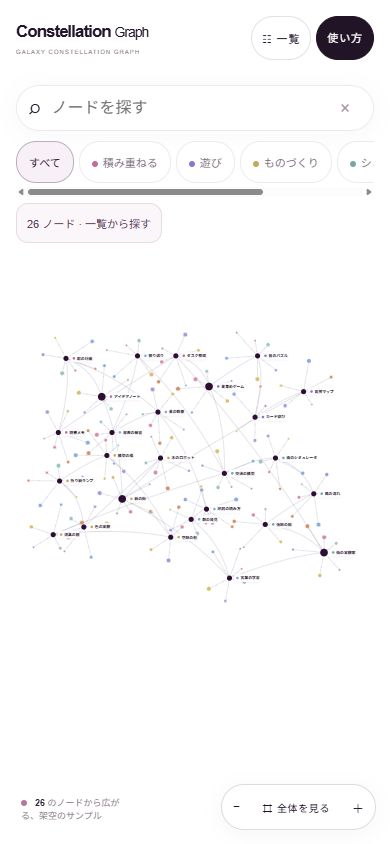
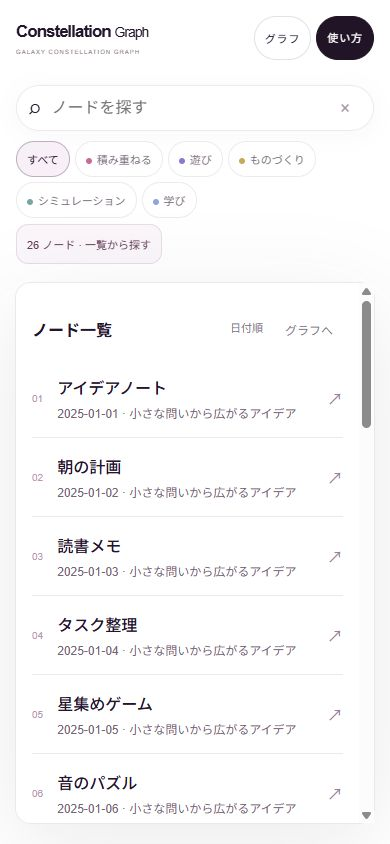
🧭 Make phone navigation readable and gestures predictable
- Default phones to a searchable list with explicit map switching
- Restore keyboard focus and isolate detail dialogs
- Harden drag/pinch cancellation and expand interaction regression tests

diff --git a/app.js b/app.js
@@ -1,4 +1,4 @@
-(async()=>{try {const response=await fetch('data.json');if(!response.ok)throw new Error('HTTP '+response.status);const D=GraphData.normalize(await response.json()),N=D.nodes,$=s=>document.querySelector(s),G={SYSTEM:['積み重ねる','#c76c96'],PLAY:['遊び','#8e78cf'],MAKE:['ものづくり','#c6a958'],SIM:['シミュレーション','#76a7a4'],LEARN:['学び','#8da5de']};let filter='ALL',query='',zoom=1,dx=0,dy=0,lastFocus,sortTime=false,detailTrail=[];const esc=s=>String(s).replace(/[&<>"']/g,c=>({'&':'&amp;','<':'&lt;','>':'&gt;','"':'&quot;',"'":'&#39;'}[c]));
+(async()=>{try {const response=await fetch('data.json');if(!response.ok)throw new Error('HTTP '+response.status);const D=GraphData.normalize(await response.json()),N=D.nodes,$=s=>document.querySelector(s),G={SYSTEM:['積み重ねる','#c76c96'],PLAY:['遊び','#8e78cf'],MAKE:['ものづくり','#c6a958'],SIM:['シミュレーション','#76a7a4'],LEARN:['学び','#8da5de']};let filter='ALL',query='',zoom=1,dx=0,dy=0,lastFocus,sortTime=false,detailTrail=[],suppressMapClick=false;const esc=s=>String(s).replace(/[&<>"']/g,c=>({'&':'&amp;','<':'&lt;','>':'&gt;','"':'&quot;',"'":'&#39;'}[c]));
 const pos=[[250,260],[110,110],[80,400],[540,100],[670,220],[860,100],[850,340],[1040,240],[330,660],[480,500],[180,770],[85,590],[270,490],[520,810],[60,800],[730,560],[930,500],[1080,640],[890,760],[1120,870],[750,970],[600,740],[660,700],[470,320],[290,400],[390,100]];
 N.forEach(n=>{if(!Object.hasOwn(G,n.group))Object.defineProperty(G,n.group,{value:[n.group,'#8b8490'],enumerable:true});if(!pos[n.id]){const a=n.id*2.399;pos[n.id]=[600+Math.cos(a)*(200+n.id*7),520+Math.sin(a)*(200+n.id*7)]}});$('#nodeCount').textContent=N.length;
 let leaves=[],leafMap=new Map(),branch=[];N.forEach(n=>n.quotes.forEach((q,j)=>{let l=leafMap.get(n.id+":"+q.id);if(!l){let angle=(j*2.399+n.id*.91),radius=60+(j%3)*31;l={id:leaves.length,x:pos[n.id][0]+Math.cos(angle)*radius,y:pos[n.id][1]+Math.sin(angle)*radius,n:n.id,q};leafMap.set(n.id+":"+q.id,l);leaves.push(l)}branch.push({n:n.id,l:l.id})}));const palette=['#d88dad','#a69bdb','#8babe2','#9dc4c0','#d7c16e','#d29371'];
@@ -6,14 +6,24 @@ function visible(){return N.filter(n=>(filter==='ALL'||n.group===filter)&&(!quer
 $('#filters').innerHTML='<button data-group="ALL" class="active" aria-pressed="true">すべて</button>'+Object.entries(G).map(([k,[v,c]])=>`<button data-group="${esc(k)}" aria-pressed="false"><i class="dot" style="--c:${c}"></i>${esc(v)}</button>`).join('');
 function transform(){let w=innerWidth,h=innerHeight;$('#world').setAttribute('transform',`translate(${w/2+dx},${h/2+dy}) scale(${zoom}) translate(-600,-520)`)}
 function reset(){const all=N.flatMap(n=>{let[x,y]=pos[n.id];return [[x-130,y-130],[x+Math.max(180,n.title.length*15+60),y+130]]});if(!all.length){zoom=1;dx=dy=0;transform();return}const xs=all.map(p=>p[0]),ys=all.map(p=>p[1]),minX=Math.min(...xs),maxX=Math.max(...xs),minY=Math.min(...ys),maxY=Math.max(...ys);zoom=Math.max(.02,Math.min(1.25,(innerWidth-40)/(maxX-minX),Math.max(80,innerHeight-300)/(maxY-minY)));dx=(600-(minX+maxX)/2)*zoom;dy=(520-(minY+maxY)/2)*zoom+45;transform()}
-function render(){let nodes=visible();$('#resultSummary').textContent=query||filter!=='ALL'?(nodes.length?nodes.length+' / '+N.length+' ノード · 結果を見る':'該当なし · 条件を変えてください'):N.length+' ノード · 一覧から探す';$('#resetFilters').hidden=!(query||filter!=='ALL');let ids=new Set(nodes.map(n=>n.id));let html=D.edges.map(([a,b])=>`<path class="edge ${ids.has(a)&&ids.has(b)?'':'muted'}" d="M${pos[a]} Q${(pos[a][0]+pos[b][0])/2+35},${(pos[a][1]+pos[b][1])/2-35} ${pos[b]}"/>`).join('');html+=branch.map(({n,l})=>{let p=pos[n],s=leaves[l],on=ids.has(n);return `<path class="branch ${on?'':'muted'}" d="M${p} L${s.x},${s.y}"/>`+[.3,.65].map(t=>`<rect class="spark" x="${p[0]+(s.x-p[0])*t-1.5}" y="${p[1]+(s.y-p[1])*t-1.5}" width="3" height="3" opacity="${on?.7:.05}"/>`).join('')}).join('');html+=leaves.map((l,i)=>`<circle class="leaf ${ids.has(l.n)?'':'muted'}" data-source="${i}" role="button" tabindex="${ids.has(l.n)?0:-1}" aria-label="${esc(N[l.n].title+'のメモ '+l.q.date.slice(0,10))}" cx="${l.x}" cy="${l.y}" r="${4+i%5*1.1}" fill="${palette[i%palette.length]}"><title>${esc(l.q.text.slice(0,70))}</title></circle>`).join('');html+=N.filter(n=>n.img).map(n=>{let[x,y]=pos[n.id];return `<path class="branch" d="M${x},${y} L${x-85},${y+90}"/><g class="asset" role="button" tabindex="0" aria-label="${esc(n.title)}のコンセプト画像" data-open="${n.id}" transform="translate(${x-85},${y+90})"><rect x="-31" y="-23" width="62" height="46" rx="5"/><image href="${esc(n.img)}" x="-28" y="-20" width="56" height="40" preserveAspectRatio="xMidYMid slice"/></g>`}).join('');html+=N.map(n=>{let[x,y]=pos[n.id],c=G[n.group][1],r=[0,4,8,19].includes(n.id)?15:10,wide=n.title.length*14+29;return `<g class="topic ${ids.has(n.id)?'':'muted'} ${query&&ids.has(n.id)?'match':''}" role="button" tabindex="${ids.has(n.id)?0:-1}" aria-label="${esc(n.title)}" data-open="${n.id}" transform="translate(${x},${y})"><circle class="hub" r="${r}"/><rect class="label-bg" x="${r+8}" y="-16" rx="7" width="${wide}" height="31"/><circle cx="${r+21}" cy="-.5" r="5" fill="${c}"/><text x="${r+33}" y="5">${esc(n.title)}</text></g>`}).join('');$('#world').innerHTML=html;transform();let ordered=sortTime?[...nodes].sort((a,b)=>a.date.localeCompare(b.date)):nodes;$('#results').innerHTML=ordered.length?ordered.map(n=>`<button class="list-row" data-open="${n.id}"><span class="num">${String(n.id+1).padStart(2,'0')}</span><span><strong>${esc(n.title)}</strong><small>${esc(n.date)} · ${esc(n.sub)}</small></span><span class="go">↗</span></button>`).join(''):'<p class="empty">一致するノードがありません。</p>'}
-function show(html){if($('#drawer').hidden){lastFocus=document.activeElement;detailTrail=[]}else{detailTrail.push({html:$('#detail').innerHTML,scroll:$('#drawer').scrollTop})}$('#detailBack').hidden=!detailTrail.length;$('#detail').innerHTML=html;$('#drawer').hidden=false;$('#shade').hidden=false;document.body.classList.add('locked');$('#drawer').scrollTop=0;$('#close').focus()}
+function render(){let nodes=visible();$('#resultSummary').textContent=query||filter!=='ALL'?(nodes.length?nodes.length+' / '+N.length+' ノード · 結果を見る':'該当なし · 条件を変えてください'):N.length+' ノード · 一覧から探す';$('#resetFilters').hidden=!(query||filter!=='ALL');let ids=new Set(nodes.map(n=>n.id));let html=D.edges.map(([a,b])=>`<path class="edge ${ids.has(a)&&ids.has(b)?'':'muted'}" d="M${pos[a]} Q${(pos[a][0]+pos[b][0])/2+35},${(pos[a][1]+pos[b][1])/2-35} ${pos[b]}"/>`).join('');html+=branch.map(({n,l})=>{let p=pos[n],s=leaves[l],on=ids.has(n);return `<path class="branch ${on?'':'muted'}" d="M${p} L${s.x},${s.y}"/>`+[.3,.65].map(t=>`<rect class="spark" x="${p[0]+(s.x-p[0])*t-1.5}" y="${p[1]+(s.y-p[1])*t-1.5}" width="3" height="3" opacity="${on?.7:.05}"/>`).join('')}).join('');html+=leaves.map((l,i)=>`<circle class="leaf ${ids.has(l.n)?'':'muted'}" data-source="${i}" role="button" tabindex="-1" aria-label="${esc(N[l.n].title+'のメモ '+l.q.date.slice(0,10))}" cx="${l.x}" cy="${l.y}" r="${4+i%5*1.1}" fill="${palette[i%palette.length]}"><title>${esc(l.q.text.slice(0,70))}</title></circle>`).join('');html+=N.filter(n=>n.img&&ids.has(n.id)).map(n=>{let[x,y]=pos[n.id];return `<path class="branch" d="M${x},${y} L${x-85},${y+90}"/><g class="asset" role="button" tabindex="-1" aria-label="${esc(n.title)}のコンセプト画像" data-open="${n.id}" transform="translate(${x-85},${y+90})"><rect x="-31" y="-23" width="62" height="46" rx="5"/><image href="${esc(n.img)}" x="-28" y="-20" width="56" height="40" preserveAspectRatio="xMidYMid slice"/></g>`}).join('');html+=N.map(n=>{let[x,y]=pos[n.id],c=G[n.group][1],r=[0,4,8,19].includes(n.id)?15:10,wide=n.title.length*14+29;return `<g class="topic ${ids.has(n.id)?'':'muted'} ${query&&ids.has(n.id)?'match':''}" role="button" tabindex="-1" aria-label="${esc(n.title)}" data-open="${n.id}" transform="translate(${x},${y})"><circle class="hub" r="${r}"/><rect class="label-bg" x="${r+8}" y="-16" rx="7" width="${wide}" height="31"/><circle cx="${r+21}" cy="-.5" r="5" fill="${c}"/><text x="${r+33}" y="5">${esc(n.title)}</text></g>`}).join('');$('#world').innerHTML=html;transform();let ordered=sortTime?[...nodes].sort((a,b)=>a.date.localeCompare(b.date)):nodes;$('#results').innerHTML=ordered.length?ordered.map(n=>`<button class="list-row" data-open="${n.id}"><span class="num">${String(n.id+1).padStart(2,'0')}</span><span><strong>${esc(n.title)}</strong><small>${esc(n.date)} · ${esc(n.sub)}</small></span><span class="go">↗</span></button>`).join(''):'<p class="empty">一致するノードがありません。</p>'}
+function setList(show,focus=false){$('#list').hidden=!show;$('#listToggle').textContent=show?'グラフ':'一覧';$('#listToggle').setAttribute('aria-expanded',show);document.body.classList.toggle('list-open',show);if(focus)(show?$('#listClose'):$('#listToggle')).focus()}
+function lockBackground(locked){['#space','header','.tools','#bottom','#list'].forEach(s=>{$(s).inert=locked})}
+function show(html){if($('#drawer').hidden){lastFocus=document.activeElement;detailTrail=[]}else{detailTrail.push({html:$('#detail').innerHTML,scroll:$('#drawer').scrollTop})}$('#search').blur?.();lockBackground(true);$('#detailBack').hidden=!detailTrail.length;$('#detail').innerHTML=html;$('#drawer').hidden=false;$('#shade').hidden=false;document.body.classList.add('locked');$('#drawer').scrollTop=0;$('#close').focus()}
 function open(id){let n=N[id];let related=D.edges.flatMap(([a,b])=>a===id?[b]:b===id?[a]:[]);show(`<div class="eyebrow">${esc(G[n.group][0])} / ${String(id+1).padStart(2,'0')}</div><h2>${esc(n.title)}</h2><button class="related" data-locate="${id}">このノードを地図で見る ↗</button><p class="sub">${esc(n.sub)}</p><p class="desc">${esc(n.desc)}</p>${n.img?`<img src="${esc(n.img)}" alt="${esc(n.title)}のコンセプトシート"><p class="note">架空のデモ画像です。</p>`:''}<h3>ノードのメモ</h3>${n.quotes.length?n.quotes.map(q=>`<blockquote>${esc(q.text).replace(/\[([^\]]+)\]\((https:\/\/[^)]+)\)/g,'<a href="$2" target="_blank" rel="noopener">$1 ↗</a>')}</blockquote><p class="source">${esc(q.author||'作成者未設定')} · ${esc(q.date.slice(0,10))}</p><details class="source"><summary>出典ID</summary>${esc(q.id)}</details>`).join(''):'<p class="note">メモは登録されていません。</p>'}${n.links.length?'<h3>関連する場所</h3>'+n.links.map(l=>`<a class="link" href="${esc(l)}" target="_blank" rel="noopener">${'関連リンク'} ↗</a>`).join(''):''}<h3>つながっているノード</h3>${related.map(i=>`<button class="related" data-open="${i}">${esc(N[i].title)} ↗</button>`).join('')}<p class="note">線はデータに定義されたノード同士の関係を表します。</p>`)}
-function close(){detailTrail=[];$('#detailBack').hidden=true;$('#drawer').hidden=true;$('#shade').hidden=true;document.body.classList.remove('locked');lastFocus?.focus()}
+function close(){lockBackground(false);detailTrail=[];$('#detailBack').hidden=true;$('#drawer').hidden=true;$('#shade').hidden=true;document.body.classList.remove('locked');lastFocus?.focus()}
 function openSource(i){let l=leaves[i],q=l.q;show(`<div class="eyebrow">関連データ</div><h2>${esc(N[l.n].title)}</h2><blockquote>${esc(q.text)}</blockquote><p class="source">${esc(q.author||'作成者未設定')} · ${esc(q.date.slice(0,10))}</p><details class="source"><summary>出典ID</summary>${esc(q.id)}</details><button class="related" data-open="${l.n}">このノードをひらく ↗</button>`)}
-document.addEventListener('click',e=>{const locate=e.target.closest('[data-locate]');if(locate){const id=+locate.dataset.locate;$('#resetFilters').onclick();close();$('#list').hidden=true;zoom=innerWidth<650?.86:1.15;dx=(600-pos[id][0]-80)*zoom;dy=(520-pos[id][1])*zoom;transform();return}let o=e.target.closest('[data-open]');if(o)open(+o.dataset.open);let source=e.target.closest('[data-source]');if(source)openSource(+source.dataset.source);let f=e.target.closest('[data-group]');if(f){filter=f.dataset.group;document.querySelectorAll('[data-group]').forEach(x=>(x.classList.toggle('active',x===f),x.setAttribute('aria-pressed',x===f)));render();let v=visible();if(filter!=='ALL'&&v.length){let xs=v.map(n=>pos[n.id][0]),ys=v.map(n=>pos[n.id][1]);zoom=Math.min(1.25,innerWidth/(Math.max(...xs)-Math.min(...xs)+300),(innerHeight-200)/(Math.max(...ys)-Math.min(...ys)+220));dx=(600-(Math.max(...xs)+Math.min(...xs)+150)/2)*zoom;dy=(520-(Math.max(...ys)+Math.min(...ys))/2)*zoom+50;transform()}else reset(true)}});document.addEventListener('keydown',e=>{if(e.key==='Escape'){if(!$('#drawer').hidden)close();$('#list').hidden=true}if((e.key==='Enter'||e.key===' ')&&e.target.matches('.topic,.leaf,.asset')){e.preventDefault();e.target.dataset.open!==undefined?open(+e.target.dataset.open):openSource(+e.target.dataset.source)}if(e.key==='Tab'&&!$('#drawer').hidden){let a=[...$('#drawer').querySelectorAll('button,a,summary')].filter(el=>!el.hidden),first=a[0],last=a.at(-1);if(e.shiftKey&&document.activeElement===first){e.preventDefault();last.focus()}else if(!e.shiftKey&&document.activeElement===last){e.preventDefault();first.focus()}}});$('#detailBack').onclick=()=>{const prev=detailTrail.pop();if(!prev)return;$('#detail').innerHTML=prev.html;$('#drawer').scrollTop=prev.scroll;$('#detailBack').hidden=!detailTrail.length;$('#close').focus()};$('#close').onclick=close;$('#shade').onclick=close;$('#resultSummary').onclick=()=>{$('#list').hidden=false};$('#resetFilters').onclick=()=>{filter='ALL';query='';$('#search').value='';document.querySelectorAll('[data-group]').forEach(x=>{x.classList.toggle('active',x.dataset.group==='ALL');x.setAttribute('aria-pressed',x.dataset.group==='ALL')});render();reset()};$('#listToggle').onclick=()=>$('#list').hidden=!$('#list').hidden;$('#listClose').onclick=()=>$('#list').hidden=true;$('#time').onclick=()=>{sortTime=!sortTime;$('#time').textContent=sortTime?'ノード順に並べる':'日付順に並べる';render()};$('#search').oninput=e=>{query=e.target.value.toLowerCase().trim();render();if(query){let n=visible()[0];if(n){zoom=innerWidth<650?.86:1.15;dx=(600-pos[n.id][0]-80)*zoom;dy=(520-pos[n.id][1])*zoom;transform()}}};$('#clear').onclick=()=>{$('#search').value='';query='';render();reset(true)};$('#home').onclick=e=>{e.preventDefault();reset(true)};
-$('#scope').onclick=()=>show(`<div class="eyebrow">GALAXY CONSTELLATION GRAPH · DEMO</div><h2>ノードと辺で、<br>つながりを可視化。</h2><p class="desc">大きな濃色の点はノード。周囲の色付きの点は、架空の関連データです。どちらも触れると開きます。線をたどると、試行錯誤のつながりが見えてきます。</p><h3>収録範囲</h3><p class="desc">${esc(D.scope)}</p><p class="desc">${N.length}ノード・${leaves.length}件の関連データ。線はサンプルとして整理した関係で、実システムの接続や完成率ではありません。</p><h3>公開デモ</h3><p class="note">全データは公開デモ用に作成した架空の内容です。実在人物の記録・画像は含みません。外部解析タグはありません。</p>`);
-$('#plus').onclick=()=>{zoom=Math.min(3,zoom*1.3);transform()};$('#minus').onclick=()=>{zoom=Math.max(.02,zoom/1.3);transform()};$('#reset').onclick=()=>reset();let points=new Map(),start;const map=$('#map');map.onpointerdown=e=>{if(e.target.closest('.topic,.leaf,.asset'))return;points.set(e.pointerId,{x:e.clientX,y:e.clientY});map.setPointerCapture(e.pointerId);let p=[...points.values()];start={dx,dy,zoom,x:p[0].x,y:p[0].y,dist:p.length>1?Math.hypot(p[1].x-p[0].x,p[1].y-p[0].y):0}};map.onpointermove=e=>{if(!points.has(e.pointerId)||!start)return;points.set(e.pointerId,{x:e.clientX,y:e.clientY});let p=[...points.values()];if(p.length===2&&start.dist){zoom=Math.min(3,Math.max(.02,start.zoom*Math.hypot(p[1].x-p[0].x,p[1].y-p[0].y)/start.dist))}else{dx=start.dx+p[0].x-start.x;dy=start.dy+p[0].y-start.y}transform()};map.onpointerup=map.onpointercancel=e=>{points.delete(e.pointerId);let p=[...points.values()];start=p.length?{dx,dy,zoom,x:p[0].x,y:p[0].y,dist:0}:null};map.onwheel=e=>{e.preventDefault();const old=zoom;zoom=Math.min(3,Math.max(.02,zoom*(e.deltaY<0?1.09:.92)));const ratio=zoom/old;dx=e.clientX-innerWidth/2-(e.clientX-innerWidth/2-dx)*ratio;dy=e.clientY-innerHeight/2-(e.clientY-innerHeight/2-dy)*ratio;transform()};addEventListener('resize',transform);render();reset(true);
+document.addEventListener('click',e=>{if(suppressMapClick&&e.target.closest('#map')){suppressMapClick=false;return}const locate=e.target.closest('[data-locate]');if(locate){const id=+locate.dataset.locate;$('#resetFilters').onclick();close();setList(false);zoom=innerWidth<650?.86:1.15;dx=(600-pos[id][0]-80)*zoom;dy=(520-pos[id][1])*zoom;transform();return}let o=e.target.closest('[data-open]');if(o)open(+o.dataset.open);let source=e.target.closest('[data-source]');if(source)openSource(+source.dataset.source);let f=e.target.closest('[data-group]');if(f){filter=f.dataset.group;document.querySelectorAll('[data-group]').forEach(x=>(x.classList.toggle('active',x===f),x.setAttribute('aria-pressed',x===f)));render();let v=visible();if(filter!=='ALL'&&v.length){let xs=v.map(n=>pos[n.id][0]),ys=v.map(n=>pos[n.id][1]);zoom=Math.min(1.25,innerWidth/(Math.max(...xs)-Math.min(...xs)+300),(innerHeight-200)/(Math.max(...ys)-Math.min(...ys)+220));dx=(600-(Math.max(...xs)+Math.min(...xs)+150)/2)*zoom;dy=(520-(Math.max(...ys)+Math.min(...ys))/2)*zoom+50;transform()}else reset(true)}});document.addEventListener('keydown',e=>{if(e.key==='Escape'){if(!$('#drawer').hidden){close();return}if(!$('#list').hidden){setList(false);$('#listToggle').focus();return}}if((e.key==='Enter'||e.key===' ')&&e.target.matches('.topic,.leaf,.asset')){e.preventDefault();e.target.dataset.open!==undefined?open(+e.target.dataset.open):openSource(+e.target.dataset.source)}if(e.key==='Tab'&&!$('#drawer').hidden){let a=[...$('#drawer').querySelectorAll('button,a,summary')].filter(el=>!el.hidden),first=a[0],last=a.at(-1);if(e.shiftKey&&document.activeElement===first){e.preventDefault();last.focus()}else if(!e.shiftKey&&document.activeElement===last){e.preventDefault();first.focus()}}});$('#detailBack').onclick=()=>{const prev=detailTrail.pop();if(!prev)return;$('#detail').innerHTML=prev.html;$('#drawer').scrollTop=prev.scroll;$('#detailBack').hidden=!detailTrail.length;$('#close').focus()};$('#close').onclick=close;$('#shade').onclick=close;$('#resultSummary').onclick=()=>{setList(true,true)};$('#resetFilters').onclick=()=>{filter='ALL';query='';$('#search').value='';document.querySelectorAll('[data-group]').forEach(x=>{x.classList.toggle('active',x.dataset.group==='ALL');x.setAttribute('aria-pressed',x.dataset.group==='ALL')});render();reset()};$('#listToggle').onclick=()=>setList($('#list').hidden,true);$('#listClose').onclick=()=>setList(false,true);$('#time').onclick=()=>{sortTime=!sortTime;$('#time').textContent=sortTime?'元の順':'日付順';render()};$('#search').oninput=e=>{if(innerWidth<650)setList(true);query=e.target.value.toLowerCase().trim();render();if(query){let n=visible()[0];if(n){zoom=innerWidth<650?.86:1.15;dx=(600-pos[n.id][0]-80)*zoom;dy=(520-pos[n.id][1])*zoom;transform()}}};$('#clear').onclick=()=>{$('#search').value='';query='';render();reset(true)};$('#home').onclick=e=>{e.preventDefault();$('#resetFilters').onclick();setList(innerWidth<650)};
+$('#scope').onclick=()=>show(`<div class="eyebrow">GALAXY CONSTELLATION GRAPH · DEMO</div><h2>ノードと辺で、<br>つながりを可視化。</h2><p class="desc">大きな濃色の点はノード。周囲の色付きの点は、架空の関連データです。どちらも触れると開きます。線をたどると、試行錯誤のつながりが見えてきます。</p><h3>操作</h3><p class="desc">一覧からノードを選ぶと、メモと関連ノードを読めます。グラフはドラッグで移動、＋／−で拡縮。「全体を見る」で戻ります。キーボードではグラフにフォーカスして矢印で移動、＋／−で拡縮、0で全体表示。Escで今のパネルを閉じます。</p><h3>収録範囲</h3><p class="desc">${esc(D.scope)}</p><p class="desc">${N.length}ノード・${leaves.length}件の関連データ。線はサンプルとして整理した関係で、実システムの接続や完成率ではありません。</p><h3>公開デモ</h3><p class="note">全データは公開デモ用に作成した架空の内容です。実在人物の記録・画像は含みません。外部解析タグはありません。</p>`);
+$('#plus').onclick=()=>{zoom=Math.min(3,zoom*1.3);transform()};$('#minus').onclick=()=>{zoom=Math.max(.02,zoom/1.3);transform()};$('#reset').onclick=()=>reset();let points=new Map(),start;const map=$('#map');
+function gesture(){const p=[...points.values()];if(!p.length)return null;return {x:p.reduce((s,v)=>s+v.x,0)/p.length,y:p.reduce((s,v)=>s+v.y,0)/p.length,dist:p.length>1?Math.hypot(p[1].x-p[0].x,p[1].y-p[0].y):0}}
+function rebase(){const p=gesture();start=p?{...p,dx,dy,zoom}:null}
+map.onpointerdown=e=>{if(e.button!=null&&e.button!==0)return;if(!points.size)suppressMapClick=false;points.set(e.pointerId,{x:e.clientX,y:e.clientY});rebase()};
+map.onpointermove=e=>{if(!points.has(e.pointerId)||!start)return;points.set(e.pointerId,{x:e.clientX,y:e.clientY});const p=gesture(),moved=Math.hypot(p.x-start.x,p.y-start.y)>5||Math.abs(p.dist-start.dist)>5;if(!moved&&!suppressMapClick)return;suppressMapClick=true;map.setPointerCapture?.(e.pointerId);zoom=start.dist&&p.dist?Math.min(3,Math.max(.02,start.zoom*p.dist/start.dist)):start.zoom;const ratio=zoom/start.zoom;dx=p.x-innerWidth/2-(start.x-innerWidth/2-start.dx)*ratio;dy=p.y-innerHeight/2-(start.y-innerHeight/2-start.dy)*ratio;transform()};
+map.onpointerup=e=>{points.delete(e.pointerId);rebase()};
+map.onpointercancel=e=>{suppressMapClick=true;points.delete(e.pointerId);rebase()};
+map.onkeydown=e=>{const steps={ArrowLeft:[40,0],ArrowRight:[-40,0],ArrowUp:[0,40],ArrowDown:[0,-40]};if(steps[e.key]){e.preventDefault();dx+=steps[e.key][0];dy+=steps[e.key][1];transform()}else if(e.key==='+'||e.key==='='){e.preventDefault();$('#plus').onclick()}else if(e.key==='-'){e.preventDefault();$('#minus').onclick()}else if(e.key==='0'){e.preventDefault();reset()}};
+map.onwheel=e=>{e.preventDefault();const old=zoom;zoom=Math.min(3,Math.max(.02,zoom*(e.deltaY<0?1.09:.92)));const ratio=zoom/old;dx=e.clientX-innerWidth/2-(e.clientX-innerWidth/2-dx)*ratio;dy=e.clientY-innerHeight/2-(e.clientY-innerHeight/2-dy)*ratio;transform()};addEventListener('resize',transform);render();reset(true);setList(innerWidth<650);
 $('#status').textContent=N.length?'':'ノードがありません。data.json にノードを追加してください。';
 } catch(error) {document.querySelector('#status').textContent='データを読み込めません。HTTPサーバーで起動し、data.json の形式とURLを確認してください。';console.error(error);}
 })();

diff --git a/index.html b/index.html
@@ -1,7 +1,8 @@
 <!doctype html><html lang="ja"><meta charset="utf-8"><meta name="viewport" content="width=device-width,initial-scale=1,maximum-scale=5"><title>Galaxy Constellation Graph</title><link rel="stylesheet" href="style.css"><body>
-<main id="space"><svg id="map" aria-label="ノードと辺がつながるグラフ"><g id="world"></g></svg></main>
+
 <header><a class="brand" href="#" id="home">Constellation <b>Graph</b><small>GALAXY CONSTELLATION GRAPH</small></a><div class="top-actions"><button id="listToggle">☷ <span>一覧</span></button><button id="scope">使い方</button></div></header>
-<div class="tools"><label>⌕ <input id="search" placeholder="ノードを探す" aria-label="ノードを探す"><button id="clear" aria-label="検索を消す">×</button></label><div id="filters"></div><div class="search-feedback"><button id="resultSummary" aria-live="polite">読み込み中</button><button id="resetFilters" hidden>条件をリセット</button></div></div>
+<div class="tools"><label>⌕ <input id="search" type="search" enterkeyhint="search" placeholder="ノードを探す" aria-label="ノードを探す"><button id="clear" aria-label="検索を消す">×</button></label><div id="filters"></div><div class="search-feedback"><button id="resultSummary" aria-live="polite">読み込み中</button><button id="resetFilters" hidden>条件をリセット</button></div></div>
 <div id="bottom"><div class="legend"><span class="live"></span><b id="nodeCount">0</b> のノードから広がる、架空のサンプル<small>ドラッグで移動 · ピンチ／スクロールで拡大</small></div><nav><button id="minus" aria-label="縮小">−</button><button id="reset">⌗ 全体を見る</button><button id="plus" aria-label="拡大">＋</button></nav></div>
-<div id="list" hidden><div class="list-head"><h2>ノードをたどる</h2><button id="time">日付順に並べる</button><button id="listClose" aria-label="一覧を閉じる">×</button></div><div id="results"></div></div>
+<main id="space"><svg id="map" tabindex="0" aria-label="ノードと辺がつながるグラフ"><g id="world"></g></svg></main>
+<div id="list" hidden><div class="list-head"><h2>ノード一覧</h2><button id="time">日付順</button><button id="listClose" aria-label="一覧を閉じる">グラフへ</button></div><div id="results"></div></div>
 <div id="shade" hidden></div><aside id="drawer" role="dialog" aria-modal="true" aria-label="ノードの詳細" hidden><button id="detailBack" hidden>← 前のノードへ</button><button id="close" aria-label="詳細を閉じる">✕</button><div id="detail"></div></aside><p id="status" role="status" aria-live="polite"></p><script src="graph-data.js"></script><script src="app.js"></script></body></html>

diff --git a/style.css b/style.css
@@ -7,3 +7,8 @@
 @media(max-width:650px){header{padding:16px;gap:10px}.brand{font-size:17px;white-space:nowrap}.brand b{font-size:14px}.brand small{letter-spacing:1px}.top-actions button{padding:10px;font-size:11px;white-space:nowrap}#scope{max-width:none;font-size:0}#scope::after{content:'使い方';font-size:11px}.tools{top:85px;left:16px;right:16px}.tools label{width:100%}.tools input{width:100%;min-width:0}.tools label button{min-width:32px;min-height:28px}#filters{flex-wrap:nowrap;overflow-x:auto;max-width:100%;padding-bottom:4px}#filters button{flex:none;min-height:42px;font-size:11px;padding:9px 12px}.search-feedback{margin-top:6px;gap:5px}.search-feedback button{font-size:11px;padding:8px 10px}#list{top:240px;bottom:84px;padding:16px}.list-head{top:-16px}.legend{max-width:125px}.legend small{display:none}#bottom{bottom:max(14px,env(safe-area-inset-bottom));gap:8px}#bottom nav{flex-shrink:0}#bottom #reset{white-space:nowrap}#detail h2{font-size:24px}.list-row{padding:16px 0}#drawer{padding:54px 20px 24px}.list-head h2{font-size:16px}.list-head button{font-size:11px}}
 
 @media(max-width:650px){#scope{font-size:11px}#scope::after{content:none}#list{top:262px}#filters{scrollbar-width:thin}}
+
+/* Readable list-first navigation on phones; the map remains one tap away. */
+#map:focus-visible{outline:3px solid var(--rose);outline-offset:-4px}#listClose{font-size:12px!important;white-space:nowrap;padding:10px;min-height:44px}.list-head h2{margin:8px 0}.list-head{gap:6px}.list-row{min-height:64px}.tools input[type=search]::-webkit-search-cancel-button{display:none}
+@media(max-width:650px){#filters{flex-wrap:wrap;overflow:visible;gap:5px;padding:0}#filters button{min-height:36px;padding:8px 10px}#list{top:282px;bottom:20px;border-radius:16px;background:#fff}.list-open #bottom{display:none}.list-open #space{opacity:.12}.search-feedback button{min-height:40px}#drawer{inset:0;max-width:100%;border-radius:0;padding:60px 22px 28px}#close{position:sticky;float:right;top:0;right:0;margin-top:-46px;z-index:2;width:44px;height:44px}.list-head #time{max-width:95px;line-height:1.4}#detailBack{top:-1px;z-index:1}}
+@media(max-height:480px){header{padding:10px 18px}.brand small{display:none}.tools{top:65px;left:18px;right:18px;display:flex;align-items:start;gap:10px;flex-wrap:wrap}.tools label{width:210px}#filters{margin:0;max-width:none;flex-wrap:nowrap;overflow-x:auto;max-width:calc(100vw - 260px)}.search-feedback{margin:0}#list{top:120px;bottom:15px}#bottom{bottom:10px}.legend{display:none}#drawer{top:0;bottom:0}#status:not(:empty){top:130px}}

diff --git a/README.md b/README.md
@@ -47,6 +47,7 @@ python tests/validate.py
 node tests/data.cjs
 node tests/smoke.cjs
 node tests/regression.cjs
+node tests/interaction.cjs
 ```
 
 ## 操作とトラブルシューティング
@@ -54,12 +55,12 @@ node tests/regression.cjs
 - 検索はタイトル・説明・メモが対象。カテゴリと組み合わせできます。一覧では日付順に切替できます。
 - 検索欄の下に件数と「結果を見る」を表示。該当なしもその場で分かり、「条件をリセット」で検索とカテゴリを一度に解除できます。
 - 詳細の「前のノードへ」は直前の内容とスクロール位置へ戻ります。「このノードを地図で見る」は条件を解除してそのノードを中心に表示します。
-- ノードは Enter / Space で開き、詳細は Escape で閉じます。詳細内の Tab はパネル内を移動します。
+- キーボードでは検索・一覧からノードを選べます。グラフにフォーカス中は矢印で移動、＋／−で拡縮、0で全体表示。詳細の Escape は詳細だけを閉じ、一覧と選択元フォーカスを保持します。もう一度 Escape で一覧を閉じます。
 - 読込エラーが出たら HTTP サーバーの起動、data.json のJSON構文、IDの重複、辺の参照先を確認して再読み込みしてください。
 - メモ・画像・リンク・日付は省略可。リンクはHTTPSのみ、画像はHTTPSまたは assets/ 配下の相対パスです。危険なURLは読み込み時に拒否します。
 
 ## 検証とCI
-GitHub Actions は構文、サンプルの架空データ監査、データ正規化とURL制限、mock DOMでの主要操作を確認します。mockテストは実ブラウザの描画保証ではありません。PC/スマホの描画・操作は別途実ブラウザで確認しています。初期表示で全体にフィットします。
+GitHub Actions は構文、サンプルの架空データ監査、データ正規化とURL制限、mock DOMでの主要操作を確認します。mockテストは実ブラウザの描画保証ではありません。PC/スマホの描画・操作は別途実ブラウザで確認しています。PCは全体グラフ、スマホは読めるノード一覧を初期表示します。右上の「一覧／グラフ」で切り替えられます。
 
 ## デモ配信
 ビルド不要です。このフォルダーを静的HTTPサーバーで配信できます。GitHub Pagesを使う場合は main の / (root) を配信元に指定してください。非公開データを置かないでください。このリポジトリでは GitHub Pages を main / (root) から公開済みです。

diff --git a/QA.md b/QA.md
@@ -18,3 +18,14 @@ Windows Chrome, desktop viewport and 390 × 844 / 320 × 740 responsive viewport
 - Synthetic dataset validation and Node regression tests passed.
 
 Responsive viewport testing is not a physical iPhone/Android test. Multi-finger touch, OS virtual keyboards and Safari are not verified. The overview intentionally favors the complete graph; use search/list or zoom for small labels.
+
+## Comprehensive interaction pass
+- Phone startup is list-first. Search keeps the readable list available; all categories remain visible without horizontal scrolling.
+- Added map keyboard controls (arrows, +/-, 0); removed hundreds of SVG tab stops in favor of the searchable list.
+- Detail dialogs make background controls inert. Escape closes only the top layer and restores focus. List toggles expose expanded state and restore focus.
+- Gestures can start on nodes; movement suppresses accidental detail opening. Pinch uses the changing two-pointer centroid; cancelled pointers are discarded.
+- Added tests/interaction.cjs: 390/1440 mock viewport drag/cancel, wheel anchor, synthetic pinch/centroid/cancel continuation, zoom bounds, repeated filtering, history scroll, Tab/Escape and resize.
+- Real Chrome checks: 320×740, 390×844, 844×390 landscape and desktop; search/list/detail/related/back/Escape, map keyboard pan/zoom/reset. No page horizontal overflow in checked narrow widths.
+- No claim of physical touch-device or Safari validation. Multi-touch is synthetic-event verification, not hardware testing.
+
+Independent PC browser review (1920×1031) also confirmed initial Tab to header, list focus entry, Enter to open, Shift+Tab wrap, related-node/back, top-layer Escape and list focus restoration, empty-search reset, arrow-key pan, node-origin drag without accidental opening, and a subsequent normal tap. A separate missing-data local page displayed the expected actionable error message.
